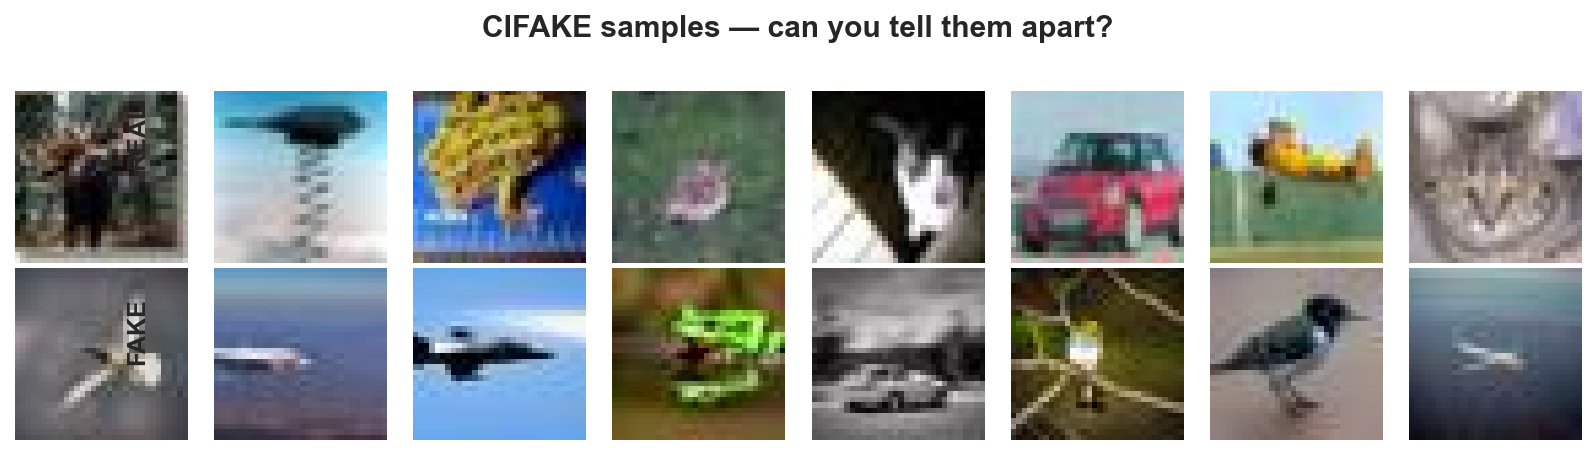
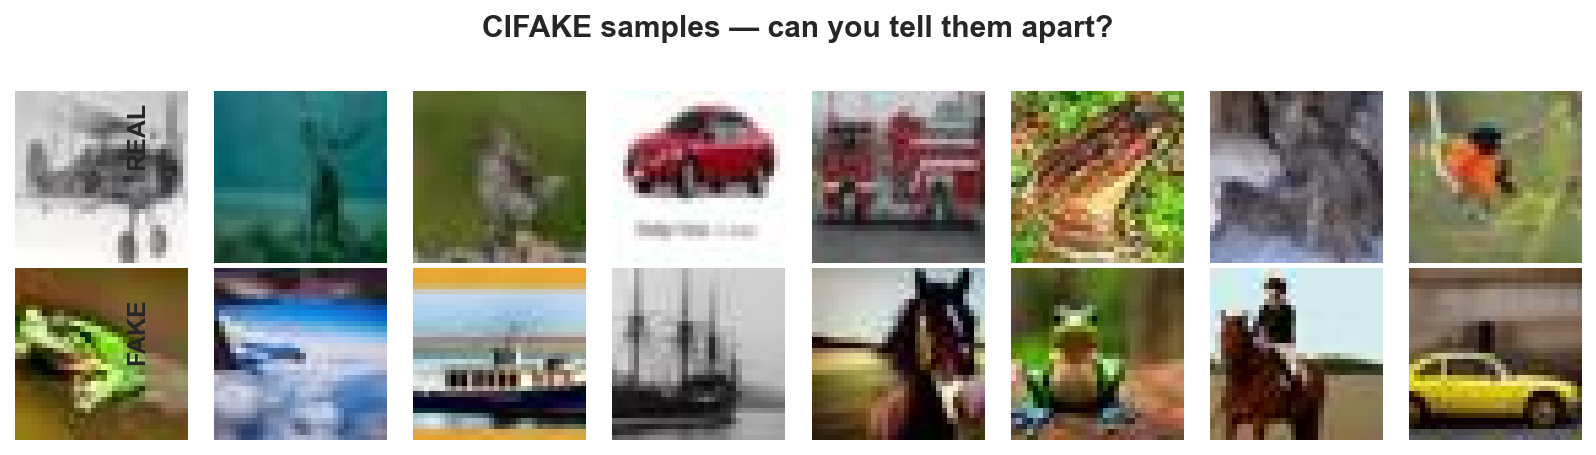
Add tools/seed_sweep.py: multi-seed ablation with paired significance tests
Closes limitation 3 of the report. Two runs can detect a non-replication, which
is what they were used for, but they are not a variance estimate: the two runs
disagreed on the noise floor by a factor of four (0.34 pp vs 0.08 pp).

The script retrains all seven ablation variants across N seeds and reports, per
variant, a mean and standard deviation plus a paired t-test and a 95% confidence
interval against the full gated model. Paired is correct here since every
variant sees the same seeds.

Design notes:
- executes the notebook's own cells up to its first training call, so the models,
  the training harness and the loaders are the study's, not a reimplementation
  that would be measuring something subtly different
- resumable: completed (variant, seed) pairs are read back from the CSV, rows are
  appended as they finish, and train_model resumes from its epoch checkpoint
- writes only new files (results/seeds.csv, results/seeds_digest.txt,
  checkpoints/seeds/); nothing existing is touched
- --quick routes all output to a scratch directory. Without that, a wiring check
  would mark all 35 runs as done in seeds.csv and the real sweep would silently
  train nothing.
- deletes each run's _last.pt once recorded; 35 optimiser snapshots is 350 MB of
  resume state that is dead weight after the fact

Verified with --dry-run (35 runs, ~3.1 h estimated) and with an isolated --quick
wiring check across 2 variants x 2 seeds: training, evaluation, CSV append,
[…]

diff --git a/tools/seed_sweep.py b/tools/seed_sweep.py
@@ -1,0 +1,376 @@
+"""Retrain every ablation variant across several seeds, then test the deltas properly.
+
+The study as submitted ran end to end twice. That is enough to detect a *non-replication*,
+which is what it was used for, but it is not a variance estimate: the two runs put the
+run-to-run noise floor at 0.34 pp and 0.08 pp respectively, a factor of four apart. Section
+10 of the report lists this as limitation 3, and it is the first thing a reviewer will ask
+about. This script closes it.
+
+For each seed it retrains all seven ablation variants under identical conditions, records
+test accuracy and ROC-AUC, and then reports, per variant, a mean with a standard deviation
+and a paired test against the full gated model. A paired test is the right one here: every
+variant sees the same seeds, so the seed effect cancels.
+
+Nothing existing is overwritten. Results go to `results/seeds.csv` and
+`results/seeds_digest.txt`; checkpoints go to `checkpoints/seeds/`.
+
+Usage:
+    python tools/seed_sweep.py --dry-run     # print the plan and the time estimate, train nothing
+    python tools/seed_sweep.py --quick       # 2-epoch wiring check on a subsample, minutes
+    python tools/seed_sweep.py               # the real sweep: 5 seeds x 7 variants
+    python tools/seed_sweep.py --seeds 42 43 44 45 46 47 48
+    python tools/seed_sweep.py --variants "3. concat fusion" "4. gated fusion (full)"
+    python tools/seed_sweep.py --report-only # recompute the digest from an existing seeds.csv
+
+The sweep is **resumable**: completed (variant, seed) pairs are read back from seeds.csv and
+skipped, and `train_model` itself resumes from its last epoch checkpoint. Interrupting it
+and re-running loses at most one epoch.
+
+Requires `data/cifake_cache.npz` (written by the notebook's first run).
+"""
+
+from __future__ import annotations
+
+import argparse
+import contextlib
+import csv
+import io
+import sys
+import time
+import types
+from pathlib import Path
+
+import numpy as np
+
+ROOT = Path(__file__).resolve().parent.parent
+sys.path.insert(0, str(ROOT / "tools"))
+
+from py2ipynb import parse_cells  # noqa: E402
+
+NOTEBOOK = ROOT / "notebooks" / "AIGID_main.py"
+CACHE = ROOT / "data" / "cifake_cache.npz"
+OUT_CSV = ROOT / "results" / "seeds.csv"
+OUT_DIGEST = ROOT / "results" / "seeds_digest.txt"
+CKPT_SUBDIR = ROOT / "checkpoints" / "seeds"
+
+DEFAULT_SEEDS = [42, 43, 44, 45, 46]
+BASELINE_VARIANT = "4. gated fusion (full)"
+
+# The configuration chosen by the coordinate-descent sweep in Section 12, recorded in
+# results/tuning.csv (lr 1e-3, dropout 0.1, width 1.5 -> 848,066 parameters). Hard-coded so
+# this script does not have to re-run the sweep, and asserted below so it cannot silently
+# drift from the model the study actually reports on.
+BEST_LR = 1e-3
+BEST_DROPOUT = 0.1
+BEST_WIDTH = 1.5
+EXPECTED_FULL_PARAMS = 848_066
+
+# BASE_CFG from Section 11, repeated here rather than read out of the namespace: the
+# notebook defines it in the same cell that starts training, which is the cell this script
+# deliberately stops before. The tuned run overrides only the learning rate, exactly as
+# BEST_TRAIN_CFG does in Section 12.
+BASE_TRAIN_KWARGS = dict(epochs=30, weight_decay=1e-4, patience=5)
+
+CSV_FIELDS = [
+    "variant", "seed", "params", "val_auc",
+    "test_acc", "test_auc", "test_f1", "test_ece", "train_time_s",
+]
+
+
+def load_notebook_namespace(quick: bool) -> dict:
+    """Execute the notebook's cells up to, but not including, its first training call.
+
+    That point is exactly where every definition exists and the data is loaded: model
+    classes, `train_model`, `predict`, `compute_metrics`, and the train/val/test loaders.
+    Running the cells rather than reimplementing them is what makes these numbers
+    comparable with the ones already in the report; a reimplemented training loop would be
+    measuring a different thing.
+    """
+    cells = parse_cells(NOTEBOOK.read_text(encoding="utf-8"))
+
+    module = types.ModuleType("nb_seed_sweep")
+    sys.modules["nb_seed_sweep"] = module
+    ns: dict = module.__dict__
+
+    executed = 0
+    for cell in cells:
+        if cell["cell_type"] != "code":
+            continue
+        source = "".join(cell["source"])
+        # The first cell that *calls* train_model is where the notebook starts spending
+        # GPU hours. Everything this script needs is defined before it.
+        if "= train_model(" in source:
+            break
+        if quick:
+            source = source.replace("QUICK_RUN = False", "QUICK_RUN = True")
+        exec(compile(source, f"<cell {executed}>", "exec"), ns)
+        executed += 1
+
+    class _NoBar:
+        def __init__(self, iterable=None, **kwargs):
+            self._it = iterable if iterable is not None else []
+
+        def __iter__(self):
+            return iter(self._it)
+
+        def set_postfix(self, **kwargs):
+            pass
+
+    ns["tqdm"] = _NoBar
+    return ns
+
+
+def build_variants(ns: dict) -> dict:
+    """The same seven variants as Section 14, rebuilt from the tuned configuration."""
+    DSFConfig = ns["DSFConfig"]
+    common = dict(dropout=BEST_DROPOUT, width=BEST_WIDTH)
+    best = DSFConfig(mode="gated", **common)
+    return {
+        "1. spatial only":        dict(cfg=DSFConfig(mode="spatial", **common)),
+        "2. frequency only":      dict(cfg=DSFConfig(mode="freq", **common)),
+        "3. concat fusion":       dict(cfg=DSFConfig(mode="concat", **common)),
+        "4. gated fusion (full)": dict(cfg=best),
+        "5. no constrained conv": dict(cfg=DSFConfig(mode="gated", use_constrained=False, **common)),
+        "6. no radial features":  dict(cfg=DSFConfig(mode="gated", use_radial=False, **common)),
+        "7. heavy augmentation":  dict(cfg=best, heavy_aug=True),
+    }
+
+
+def read_done(path: Path) -> set:
+    """(variant, seed) pairs already recorded, so an interrupted sweep can resume."""
+    if not path.exists():
+        return set()
+    with path.open(encoding="utf-8", newline="") as fh:
+        return {(row["variant"], int(row["seed"])) for row in csv.DictReader(fh)}
+
+
+def append_row(path: Path, row: dict) -> None:
+    """Write each result as soon as it exists, not at the end.
+
+    A three-hour sweep that loses everything to a crash in hour three is worse than no
+    sweep at all.
+    """
+    new_file = not path.exists()
+    with path.open("a", encoding="utf-8", newline="") as fh:
+        writer = csv.DictWriter(fh, fieldnames=CSV_FIELDS)
+        if new_file:
+            writer.writeheader()
+        writer.writerow(row)
+
+
+def run_sweep(ns: dict, variants: dict, seeds: list, verbose: bool) -> None:
+    torch = ns["torch"]
+    train_model = ns["train_model"]
+    predict = ns["predict"]
+    compute_metrics = ns["compute_metrics"]
+    count_parameters = ns["count_parameters"]
+    DSFNet = ns["DSFNet"]
+    TrainConfig = ns["TrainConfig"]
+
+    # Keep the sweep's checkpoints out of the main directory: 5 seeds x 7 variants is 35
+    # models, and mixing them in with the study's own weights would make it impossible to
+    # tell which file belongs to which result.
+    CKPT_SUBDIR.mkdir(parents=True, exist_ok=True)
+    ns["CKPT_DIR"] = CKPT_SUBDIR
+
+    heavy_loader = ns["make_loader"](
+        ns["CifakeDataset"](ns["X_train"], ns["y_train"], train=True, heavy_aug=True),
+        ns["BATCH_SIZE"], shuffle=True,
+    )
+
+    done = read_done(OUT_CSV)
+    todo = [(v, s) for s in seeds for v in variants if (v, s) not in done]
+    if done:
+        print(f"  resuming: {len(done)} run(s) already in {OUT_CSV.name}, {len(todo)} to go\n")
+
+    for index, (label, seed) in enumerate(todo, start=1):
+        spec = variants[label]
+        tag = f"seed{seed}_abl_{label.split('.')[0]}"
+        loader = heavy_loader if spec.get("heavy_aug") else ns["train_loader"]
+
+        cfg = TrainConfig(**{**BASE_TRAIN_KWARGS, "lr": BEST_LR, "seed": seed})
+        model = DSFNet(spec["cfg"])
+
+        if label == BASELINE_VARIANT:
+            n = count_parameters(model)
+            assert n == EXPECTED_FULL_PARAMS, (
+                f"full model has {n:,} parameters, expected {EXPECTED_FULL_PARAMS:,}; "
+                "the tuned configuration here has drifted from the study's"
+            )
+
+        print(f"[{index}/{len(todo)}] {label:24s} seed {seed} ...", flush=True)
+        started = time.time()
+        history = train_model(model, tag, loader, ns["val_loader"], cfg, verbose=verbose)
+        y_true, y_prob = predict(model, ns["test_loader"])
+        metrics = compute_metrics(y_true, y_prob)
+
+        append_row(OUT_CSV, {
+            "variant": label,
+            "seed": seed,
+            "params": count_parameters(model),
+            "val_auc": history["best_val_auc"],
+            "test_acc": metrics["accuracy"],
+            "test_auc": metrics["roc_auc"],
+            "test_f1": metrics["f1"],
+            "test_ece": metrics["ece"],
+            "train_time_s": round(time.time() - started, 1),
+        })
+        print(f"      test acc {metrics['accuracy']:.4f} | test AUC {metrics['roc_auc']:.4f} "
+              f"| {time.time() - started:.0f}s", flush=True)
+
+        # 35 models at ~10 MB each is 350 MB of resume state that is dead weight once the
+        # run is recorded. The best weights stay; only the optimiser snapshot goes.
+        last = CKPT_SUBDIR / f"{tag}_last.pt"
+        if last.exists():
+            last.unlink()
+
+        del model
+        if torch.cuda.is_available():
+            torch.cuda.empty_cache()
+
+
+def build_report() -> str:
+    """Per-variant mean and spread, plus a paired test of each variant against the full model."""
+    import pandas as pd
+    from scipy import stats
+
+    df = pd.read_csv(OUT_CSV)
+    lines = []
+
+    def emit(text=""):
+        lines.append(text)
+        print(text)
+
+    seeds = sorted(df["seed"].unique())
+    emit(f"Seeds: {seeds}  ({len(seeds)} per variant)")
+    emit()
+    emit(f"{'variant':<24} {'mean acc':>9} {'std':>8} {'min':>8} {'max':>8} {'n':>3}")
+    emit("-" * 64)
+    for variant, group in df.groupby("variant"):
+        acc = group["test_acc"]
+        emit(f"{variant:<24} {acc.mean():>9.4f} {acc.std(ddof=1):>8.4f} "
+             f"{acc.min():>8.4f} {acc.max():>8.4f} {len(acc):>3}")
+
+    emit()
+    emit(f"Measured noise floor: the full model's own spread across seeds is "
+         f"{df[df['variant'] == BASELINE_VARIANT]['test_acc'].std(ddof=1) * 100:.3f} pp (std). "
+         "Any ablation delta smaller than that is not an effect.")
+    emit()
+    emit(f"Paired comparison against '{BASELINE_VARIANT}', same seeds throughout:")
+    emit()
+    emit(f"{'variant':<24} {'delta pp':>9} {'95% CI':>19} {'t-test p':>10}")
+    emit("-" * 66)
+
+    base = df[df["variant"] == BASELINE_VARIANT].set_index("seed")["test_acc"]
+    for variant, group in df.groupby("variant"):
+        if variant == BASELINE_VARIANT:
+            continue
+        other = group.set_index("seed")["test_acc"]
+        shared = sorted(set(base.index) & set(other.index))
+        if len(shared) < 2:
+            emit(f"{variant:<24} {'too few shared seeds':>40}")
+            continue
+        diff = (other.loc[shared] - base.loc[shared]).to_numpy() * 100.0
+        mean = diff.mean()
+        if len(shared) >= 2 and diff.std(ddof=1) > 0:
+            t_stat, p_value = stats.ttest_rel(other.loc[shared], base.loc[shared])
+            half = stats.t.ppf(0.975, len(shared) - 1) * diff.std(ddof=1) / np.sqrt(len(shared))
+            ci = f"[{mean - half:+.2f}, {mean + half:+.2f}]"
+            p_text = f"{p_value:.4f}"
+        else:
+            ci, p_text = "n/a", "n/a"
+        emit(f"{variant:<24} {mean:>+9.2f} {ci:>19} {p_text:>10}")
+
+    emit()
+    emit("Reading this table: the confidence interval is the honest output. With five seeds a "
+         "p-value is weak evidence either way, but an interval that straddles zero means the "
+         "study cannot tell the sign of that effect, which is exactly the claim the report "
+         "makes about gated fusion versus concatenation.")
+
+    report = "\n".join(lines) + "\n"
+    OUT_DIGEST.write_text(report, encoding="utf-8")
+    print(f"\nwritten to {OUT_DIGEST.relative_to(ROOT)}")
+    return report
+
+
+def main() -> None:
+    global OUT_CSV, OUT_DIGEST, CKPT_SUBDIR
+
+    parser = argparse.ArgumentParser(
+        description=__doc__, formatter_class=argparse.RawDescriptionHelpFormatter)
+    parser.add_argument("--seeds", type=int, nargs="+", default=DEFAULT_SEEDS)
+    parser.add_argument("--variants", nargs="+", default=None,
+                        help="subset of variant labels; default is all seven")
+    parser.add_argument("--quick", action="store_true",
+                        help="2-epoch runs on a subsample: checks the wiring, produces meaningless numbers")
+    parser.add_argument("--dry-run", action="store_true", help="print the plan and exit")
+    parser.add_argument("--report-only", action="store_true",
+                        help="recompute the digest from an existing seeds.csv, train nothing")
+    parser.add_argument("--verbose", action="store_true", help="per-epoch training logs")
+    args = parser.parse_args()
+
+    if args.report_only:
+        if not OUT_CSV.exists():
+            sys.exit(f"no results yet: {OUT_CSV}")
+        build_report()
+        return
+
+    if not CACHE.exists():
+        sys.exit(f"missing dataset cache: {CACHE}\n  -> run notebooks/AIGID_main.ipynb once first")
+
+    if args.quick:
+        # Quick-mode numbers are meaningless, and the resume logic reads the CSV back to
+        # decide what still needs training. If a quick run were allowed to write into
+        # results/seeds.csv it would mark all 35 runs as done and the real sweep would
+        # silently train nothing. Keep the two completely separate.
+        scratch = ROOT / "results" / "_quick_check"
+        scratch.mkdir(parents=True, exist_ok=True)
+        OUT_CSV = scratch / "seeds.csv"
+        OUT_DIGEST = scratch / "seeds_digest.txt"
+        CKPT_SUBDIR = ROOT / "checkpoints" / "seeds_quick"
+
+    print("Seed sweep for the ablation study")
+    print("=" * 66)
+
+    quiet = io.StringIO()
+    with contextlib.redirect_stdout(quiet):
+        ns = load_notebook_namespace(quick=args.quick)
+
+    variants = build_variants(ns)
+    if args.variants:
+        unknown = [v for v in args.variants if v not in variants]
+        if unknown:
+            sys.exit("unknown variant(s): " + ", ".join(unknown)
+                     + "\nchoose from:\n  " + "\n  ".join(variants))
+        variants = {k: v for k, v in variants.items() if k in args.variants}
+
+    done = read_done(OUT_CSV)
+    todo = [(v, s) for s in args.seeds for v in variants if (v, s) not in done]
+
+    print(f"  device:   {ns['DEVICE']}")
+    print(f"  variants: {len(variants)}")
+    print(f"  seeds:    {args.seeds}")
+    print(f"  runs:     {len(todo)} to train, {len(done)} already recorded")
+    if args.quick:
+        print("  QUICK MODE: 2 epochs on a subsample. The numbers are for wiring only.")
+    else:
+        # The study's own log puts seven variants at about 37 minutes on an RTX 5070.
+        print(f"  estimate: roughly {len(todo) * 5.3 / 60:.1f} h on an RTX 5070, "
+              "longer on a slower GPU. The sweep is resumable.")
+    print(f"  output:   {OUT_CSV.relative_to(ROOT)}, {OUT_DIGEST.relative_to(ROOT)}")
+    print(f"  weights:  {CKPT_SUBDIR.relative_to(ROOT)}/")
+    print()
+
+    if args.dry_run:
+        for label, seed in todo:
+            print(f"  would train  {label:24s} seed {seed}")
+        print("\ndry run: nothing was trained.")
+        return
+
+    run_sweep(ns, variants, args.seeds, verbose=args.verbose)
+    print()
+    build_report()
+
+
+if __name__ == "__main__":
+    main()

diff --git a/README.md b/README.md
@@ -128,6 +128,7 @@ notebooks/
   AIGID_main.executed.backup.ipynb  <- run 1, preserved; the replication table depends on it
 tools/
   demo.py                           <- live demo: trained model, real test images, seconds
+  seed_sweep.py                     <- retrains every ablation across N seeds, with paired tests
   py2ipynb.py                       <- rebuilds the .ipynb from the .py
   smoke_test.py                     <- runs the model/training code on synthetic data, no dataset needed
   pipeline_test.py                  <- runs EVERY notebook cell end to end on synthetic data
